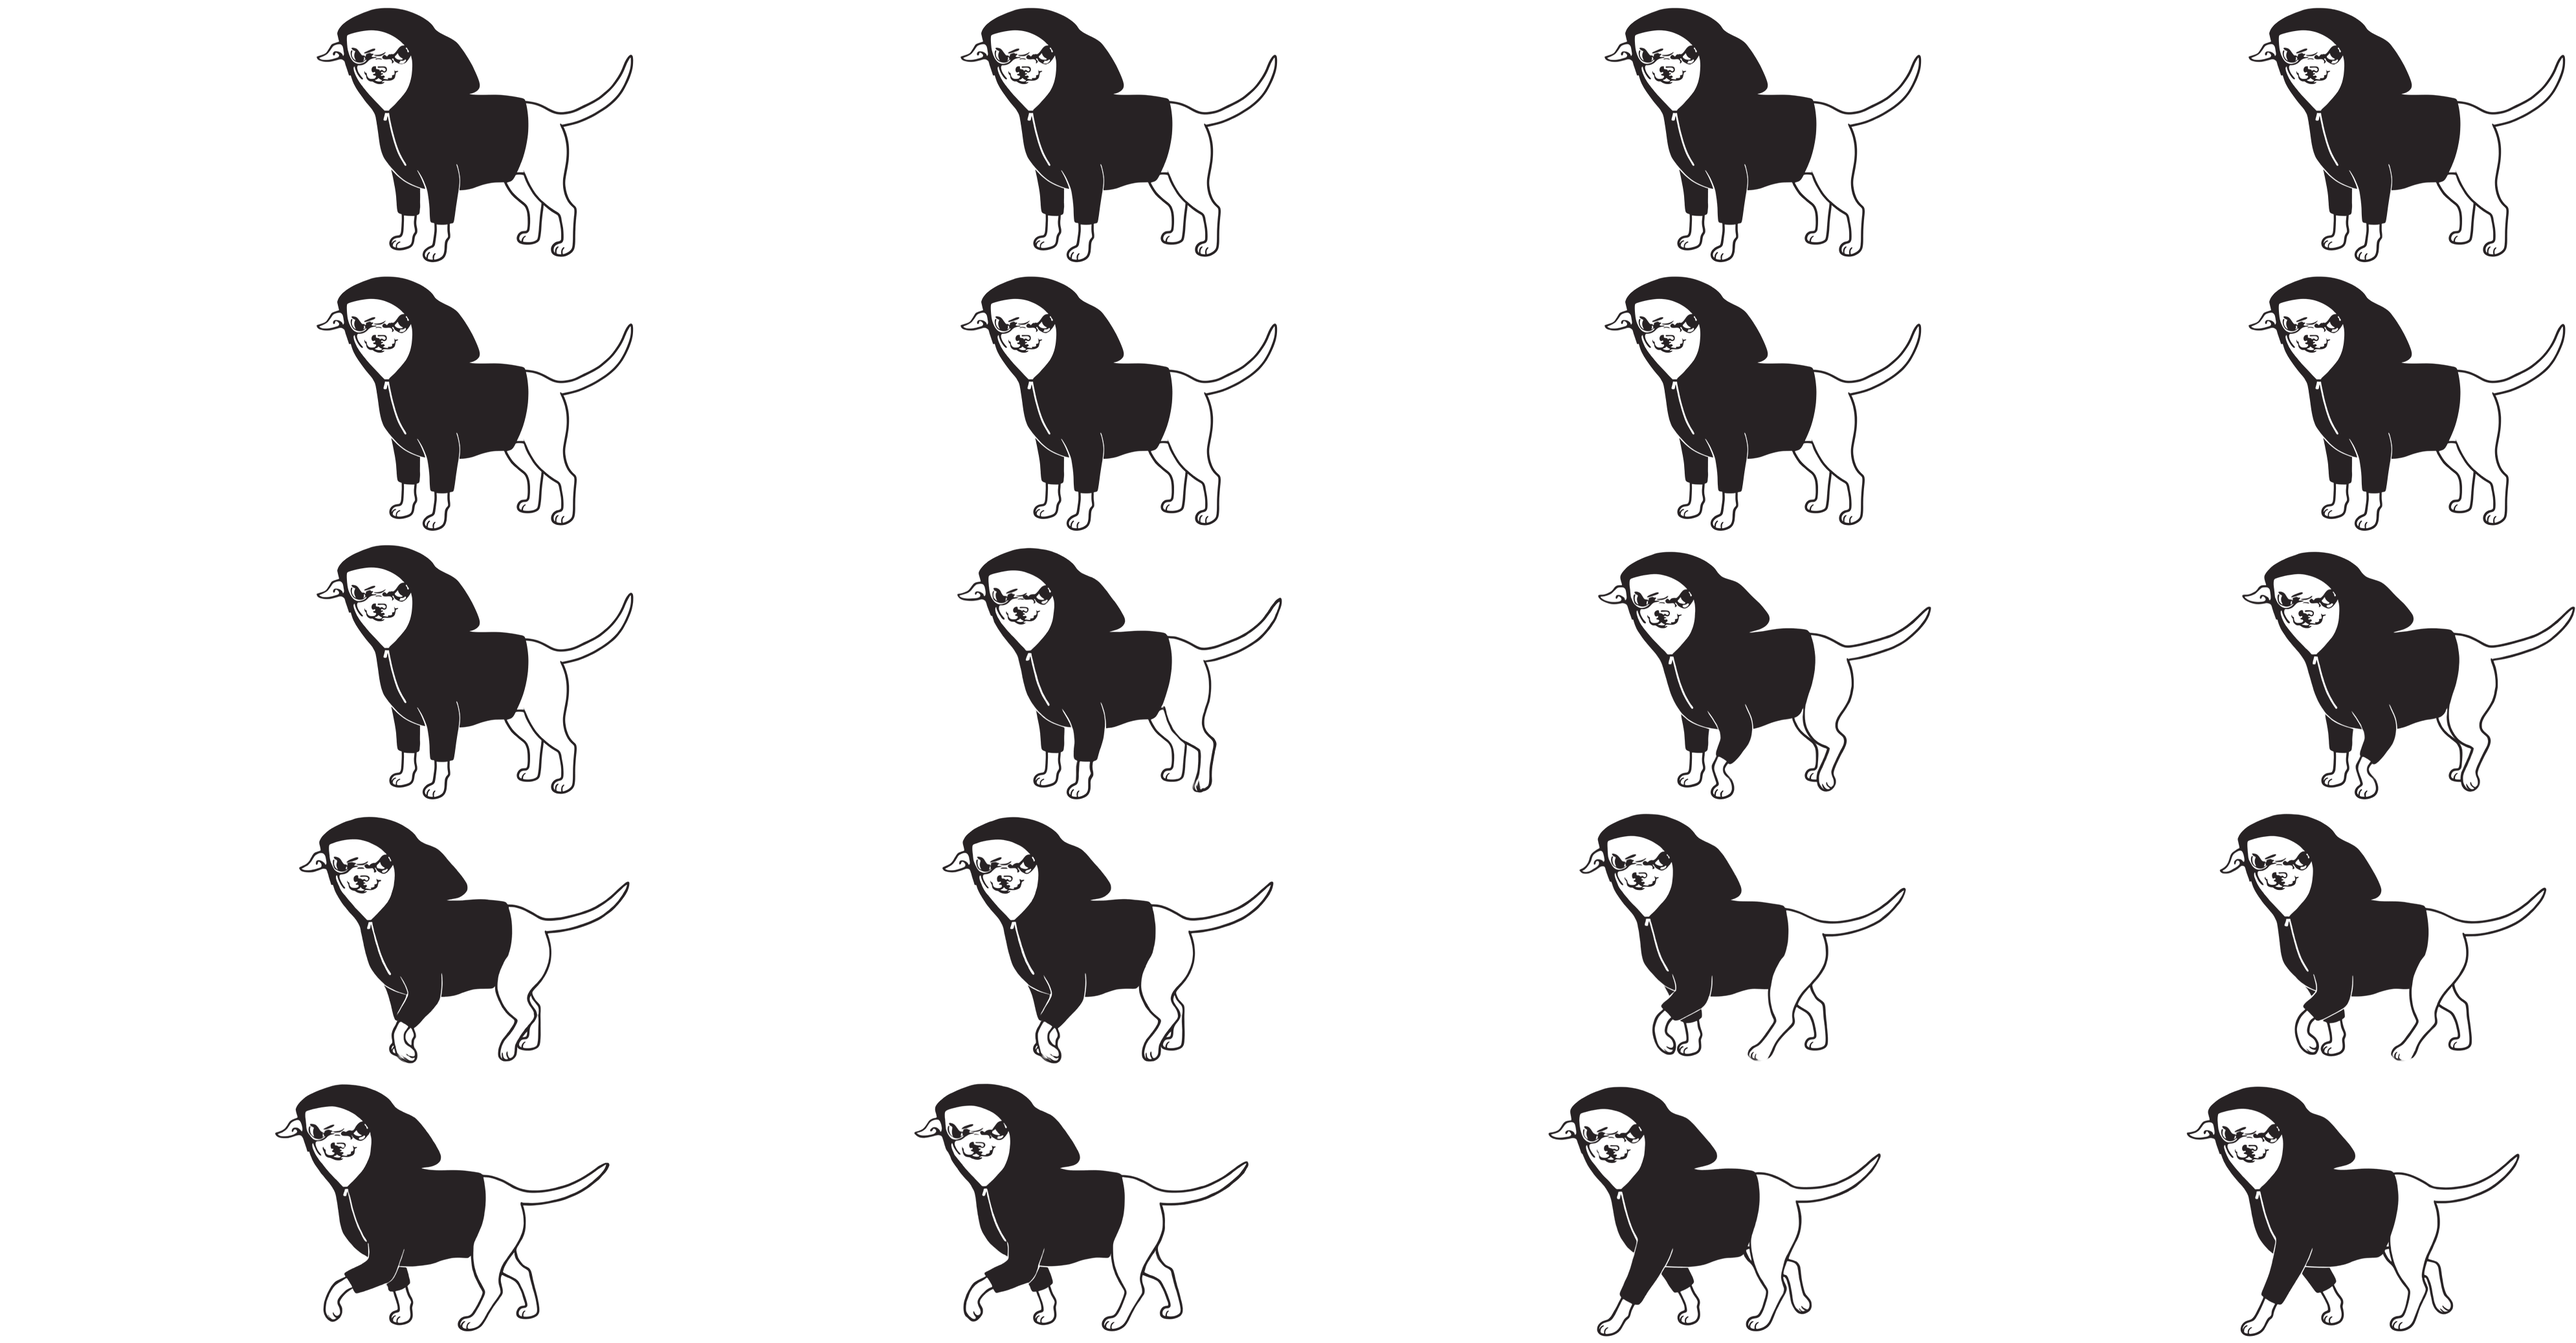
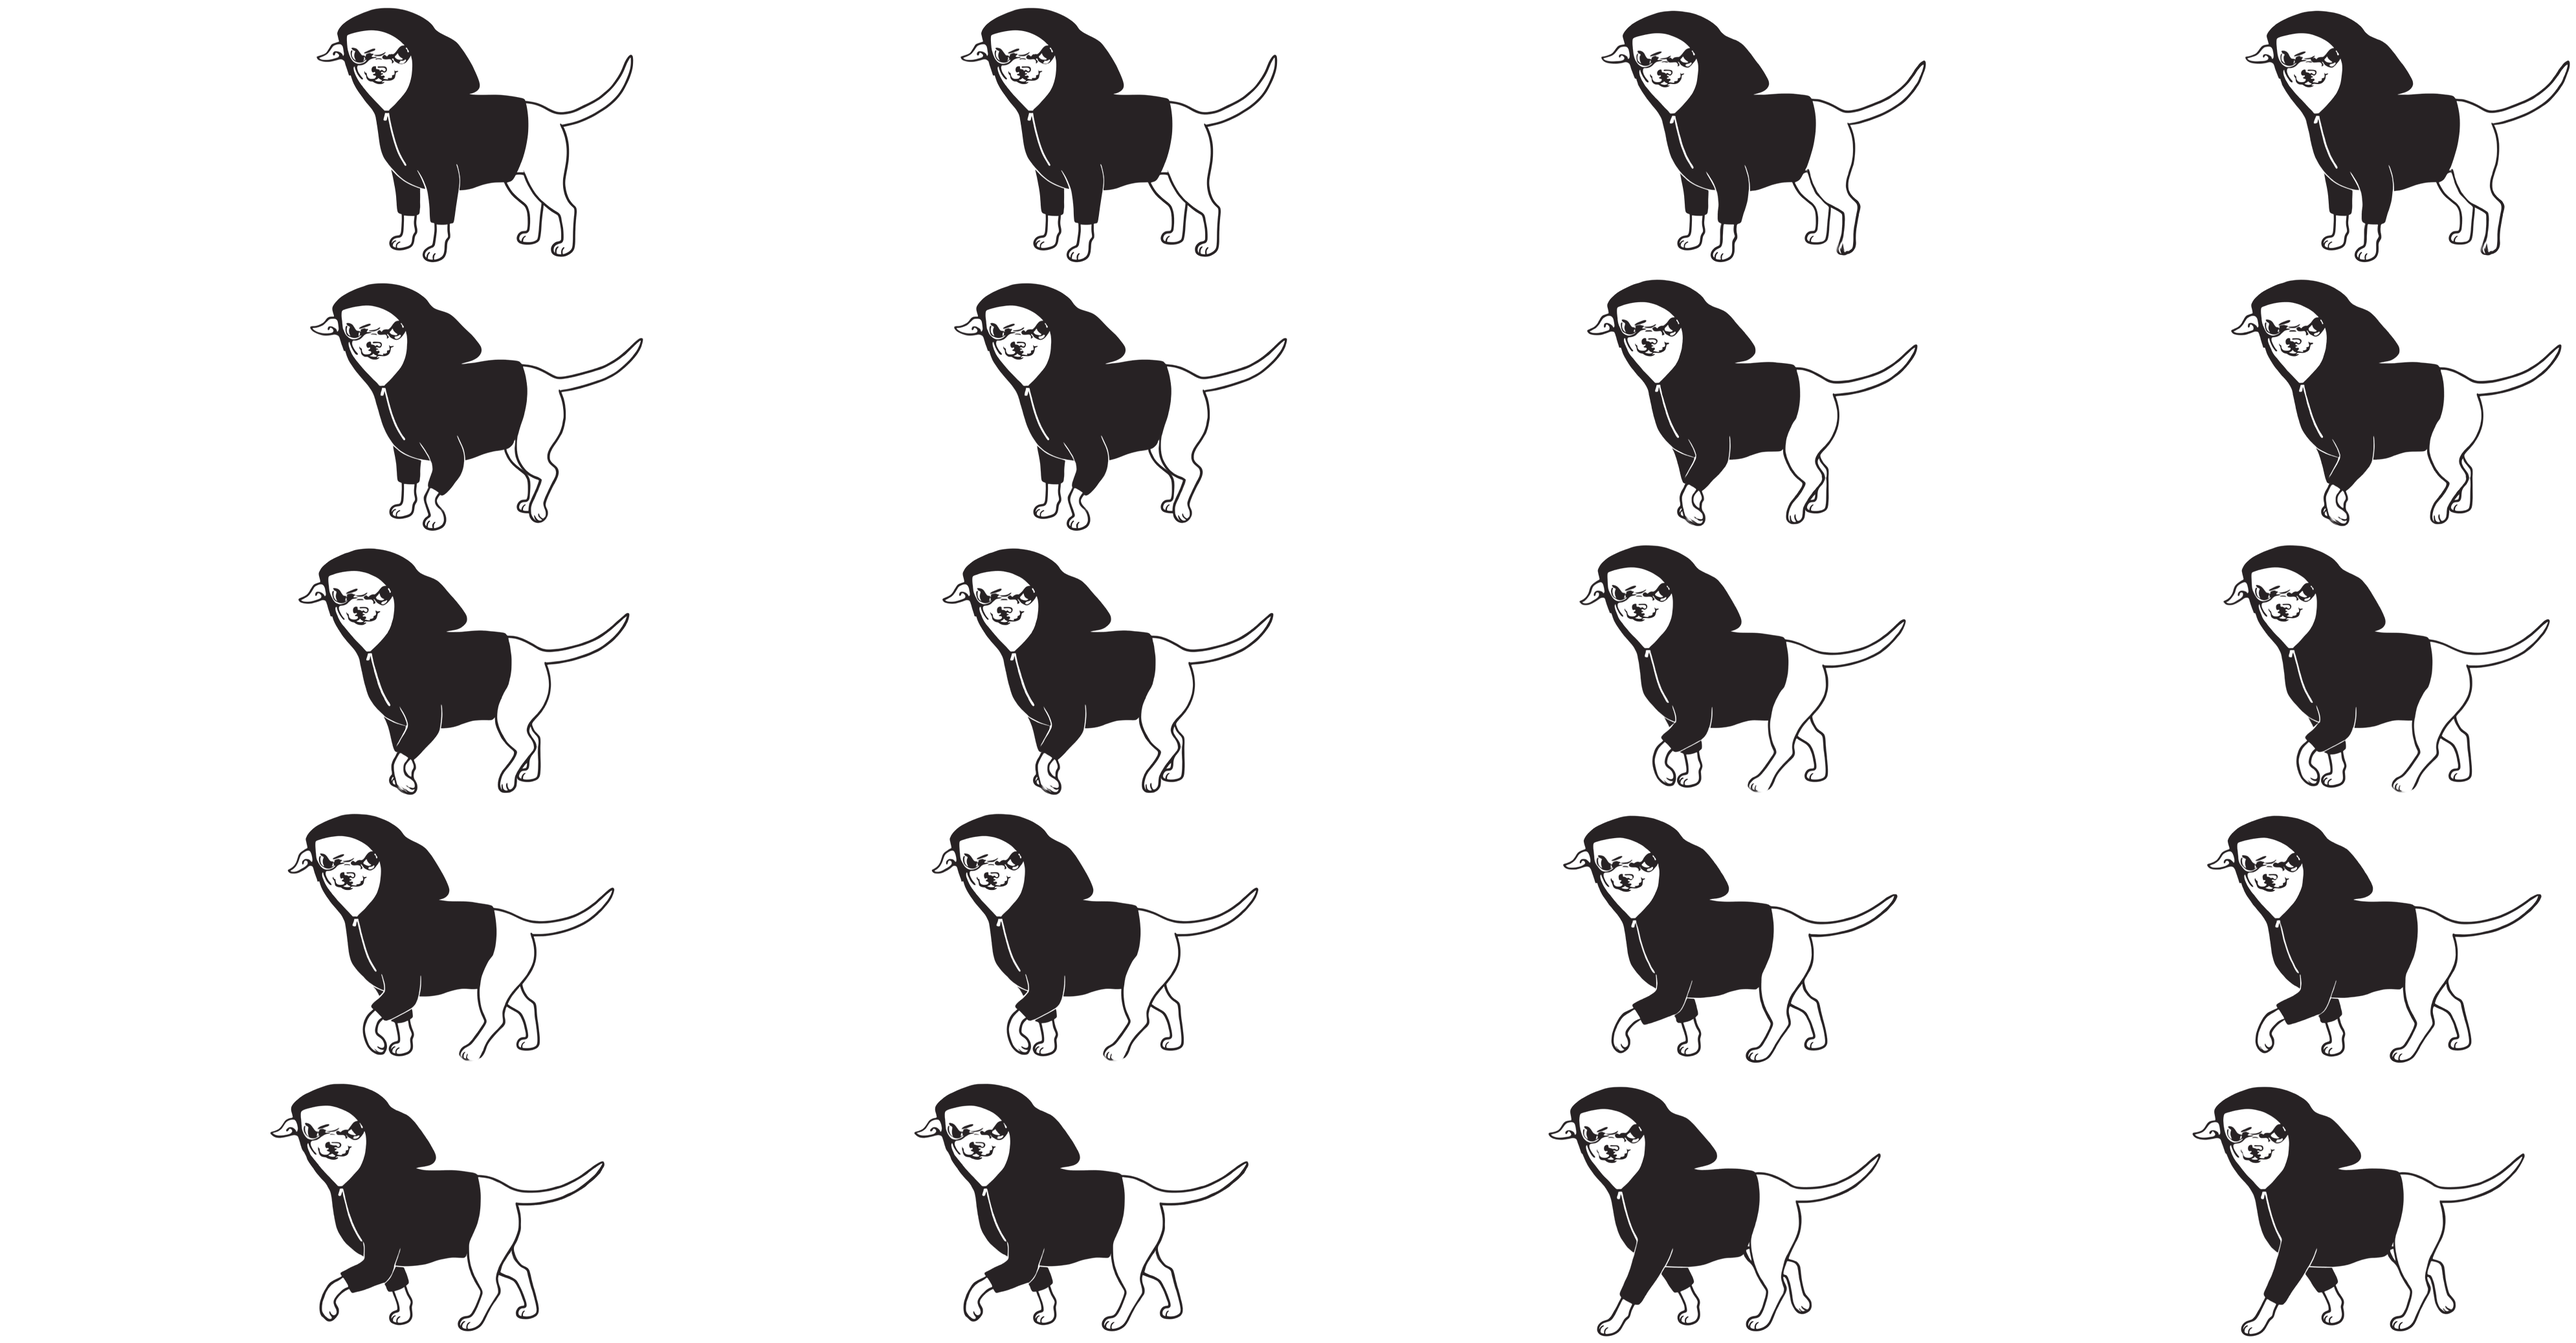
Dog: no pause before sitting, one steady rhythm

diff --git a/index.html b/index.html
@@ -684,7 +684,7 @@ function renderDog(alt = COPY.dogAlt) {
    The sitting dog it ends on is a still (media/piesek-siedzi.webp) with Jana's
    original head; the tongue, the lid and the pupils sit on it, placed with
    DOG_STAGE.grid (the same 1357 x 1072 grid as the dog above). */
-const DOG_STAGE = { walkFrom: 489, walkEnd: 53, w: 995, h: 415, frames: 124, cols: 4, rows: 5, sheets: 7, fps: 24,
+const DOG_STAGE = { walkFrom: 489, walkEnd: 84, w: 995, h: 415, frames: 153, cols: 4, rows: 5, sheets: 8, fps: 24,
   still: [76.67, 18.67, 434.07, 391.4], grid: [0.265595, 39.599, -10.698] };
 function renderWalkingDog(alt = COPY.dogAlt) {
   const S = DOG_STAGE, [x, y, w, h] = S.still;

diff --git a/kursor.html b/kursor.html
@@ -684,7 +684,7 @@ function renderDog(alt = COPY.dogAlt) {
    The sitting dog it ends on is a still (media/piesek-siedzi.webp) with Jana's
    original head; the tongue, the lid and the pupils sit on it, placed with
    DOG_STAGE.grid (the same 1357 x 1072 grid as the dog above). */
-const DOG_STAGE = { walkFrom: 489, walkEnd: 53, w: 995, h: 415, frames: 124, cols: 4, rows: 5, sheets: 7, fps: 24,
+const DOG_STAGE = { walkFrom: 489, walkEnd: 84, w: 995, h: 415, frames: 153, cols: 4, rows: 5, sheets: 8, fps: 24,
   still: [76.67, 18.67, 434.07, 391.4], grid: [0.265595, 39.599, -10.698] };
 function renderWalkingDog(alt = COPY.dogAlt) {
   const S = DOG_STAGE, [x, y, w, h] = S.still;

diff --git a/oddech.html b/oddech.html
@@ -684,7 +684,7 @@ function renderDog(alt = COPY.dogAlt) {
    The sitting dog it ends on is a still (media/piesek-siedzi.webp) with Jana's
    original head; the tongue, the lid and the pupils sit on it, placed with
    DOG_STAGE.grid (the same 1357 x 1072 grid as the dog above). */
-const DOG_STAGE = { walkFrom: 489, walkEnd: 53, w: 995, h: 415, frames: 124, cols: 4, rows: 5, sheets: 7, fps: 24,
+const DOG_STAGE = { walkFrom: 489, walkEnd: 84, w: 995, h: 415, frames: 153, cols: 4, rows: 5, sheets: 8, fps: 24,
   still: [76.67, 18.67, 434.07, 391.4], grid: [0.265595, 39.599, -10.698] };
 function renderWalkingDog(alt = COPY.dogAlt) {
   const S = DOG_STAGE, [x, y, w, h] = S.still;
